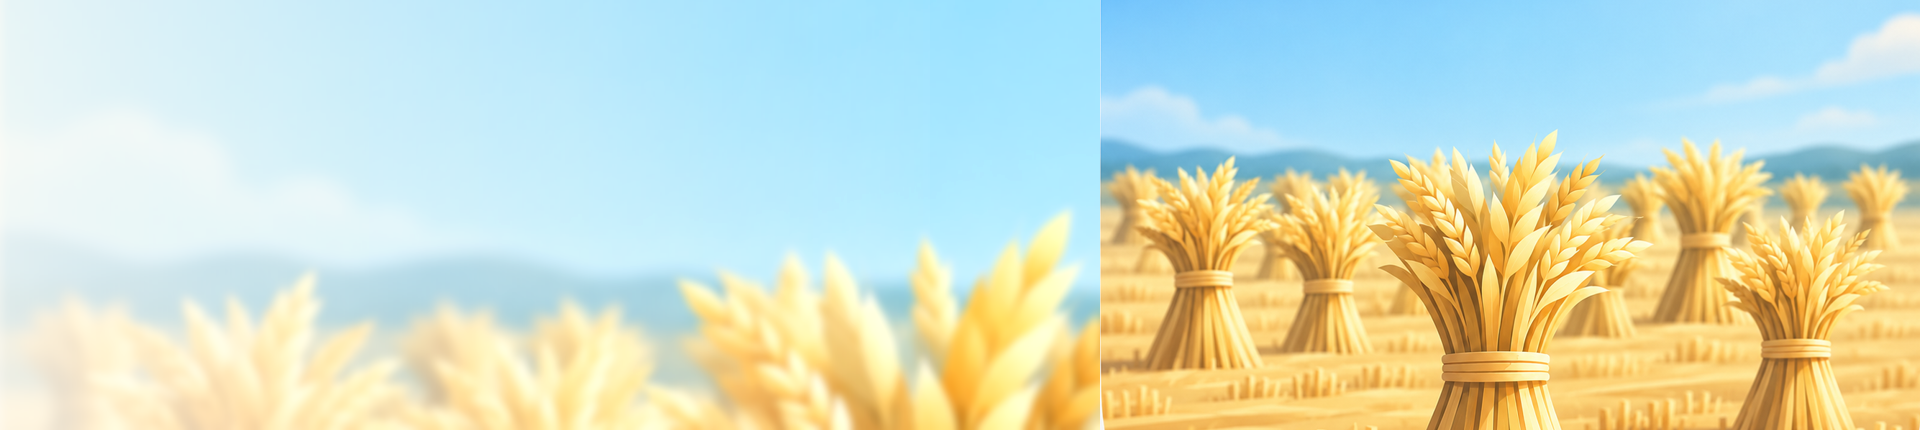
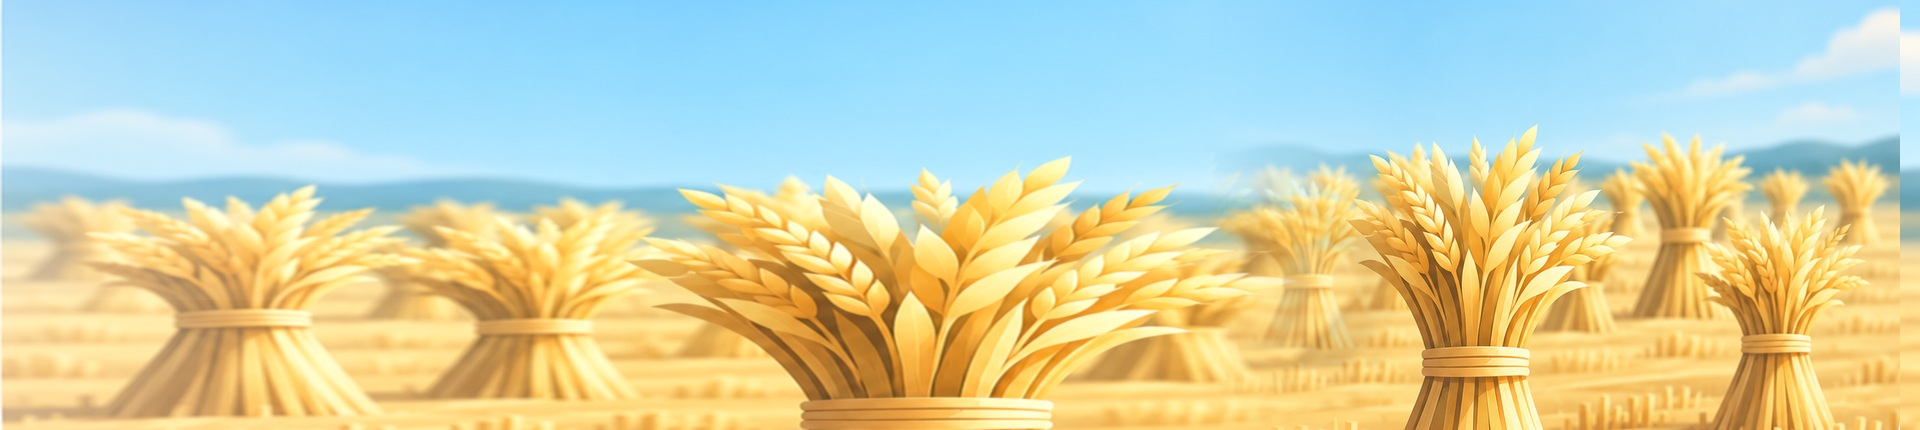
改版

diff --git a/style.css b/style.css
@@ -2040,3 +2040,123 @@ select:focus-visible,
     max-width: 100%;
   }
 }
+
+
+/* =========================================
+   v1.0.0｜正式公開版 Hero 微調
+   - 移除明顯的左右漸層斷點
+   - 文字只保留局部柔光，不讓模糊區延伸過長
+   - 桌機／手機使用同一張連續禾場背景
+========================================= */
+
+.topbar {
+  min-height: 252px;
+  padding: 40px clamp(24px, 4.6vw, 72px);
+  background:
+    radial-gradient(
+      ellipse 560px 220px at 18% 47%,
+      rgba(255, 253, 246, .82) 0%,
+      rgba(255, 253, 246, .62) 42%,
+      rgba(255, 253, 246, .24) 70%,
+      rgba(255, 253, 246, 0) 100%
+    ),
+    url("header-wheat.png") center 52% / cover no-repeat;
+}
+
+.topbar > div {
+  max-width: min(700px, 49vw);
+}
+
+.release-meta {
+  display: inline-flex;
+  align-items: center;
+  gap: 6px;
+  margin: 9px 0 0;
+  padding: 4px 8px;
+  border: 1px solid rgba(23, 55, 68, .10);
+  border-radius: 999px;
+  background: rgba(255, 255, 255, .38);
+  color: rgba(23, 55, 68, .70);
+  font-size: 10px;
+  font-weight: 800;
+  letter-spacing: .04em;
+  line-height: 1;
+  backdrop-filter: blur(3px);
+}
+
+@media (max-width: 900px) {
+  .topbar {
+    min-height: 238px;
+    background:
+      radial-gradient(
+        ellipse 520px 210px at 20% 44%,
+        rgba(255, 253, 246, .82) 0%,
+        rgba(255, 253, 246, .58) 45%,
+        rgba(255, 253, 246, .18) 74%,
+        rgba(255, 253, 246, 0) 100%
+      ),
+      url("header-wheat.png") 58% 52% / cover no-repeat;
+  }
+
+  .topbar > div {
+    max-width: 62%;
+  }
+}
+
+@media (max-width: 680px) {
+  .topbar {
+    min-height: 270px;
+    padding: 28px 20px 22px;
+    background:
+      radial-gradient(
+        ellipse 430px 230px at 18% 31%,
+        rgba(255, 253, 246, .88) 0%,
+        rgba(255, 253, 246, .64) 48%,
+        rgba(255, 253, 246, .20) 76%,
+        rgba(255, 253, 246, 0) 100%
+      ),
+      url("header-wheat.png") 60% center / cover no-repeat;
+  }
+
+  .topbar > div {
+    max-width: 100%;
+    padding-right: 0;
+  }
+
+  .topbar h1 {
+    font-size: clamp(29px, 9.4vw, 39px);
+  }
+
+  .topbar .subtitle {
+    max-width: 92%;
+    font-size: 13px;
+  }
+
+  .release-meta {
+    margin-top: 8px;
+    background: rgba(255, 255, 255, .46);
+  }
+
+  .topbar .btn.ghost {
+    margin-top: 15px;
+  }
+}
+
+@media (max-width: 420px) {
+  .topbar {
+    min-height: 278px;
+    background:
+      radial-gradient(
+        ellipse 390px 220px at 18% 29%,
+        rgba(255, 253, 246, .90) 0%,
+        rgba(255, 253, 246, .66) 48%,
+        rgba(255, 253, 246, .18) 77%,
+        rgba(255, 253, 246, 0) 100%
+      ),
+      url("header-wheat.png") 62% center / cover no-repeat;
+  }
+
+  .topbar .subtitle {
+    max-width: 100%;
+  }
+}

diff --git a/index.html b/index.html
@@ -59,6 +59,12 @@
         匯入當次點名報表與受浸報表，在瀏覽器本機完成分析；重新整理或清除後即移除資料。
       </p>
 
+      <p class="release-meta" aria-label="版本資訊">
+        <span>v1.0.0</span>
+        <span aria-hidden="true">·</span>
+        <span>J.C</span>
+      </p>
+
     </div>
 
 

diff --git a/CHANGELOG.md b/CHANGELOG.md
@@ -1,0 +1,18 @@
+# CHANGELOG
+
+本檔自正式公開版本開始記錄網站版本歷程。
+
+## v1.0.0 — 2026-09-11
+
+**維護代稱：J.C**
+
+### 正式公開版
+- 建立第一個供聖徒正式使用的公開版本。
+- 頁首改為明亮的禾場／禾捆主視覺。
+- 修正桌機版頁首背景左右銜接過快、產生明顯斷點的問題。
+- 縮短標題周邊的柔光／淡化範圍，讓文字與禾場之間的過渡更自然。
+- 調整手機版 Hero 構圖，避免背景與標題互相干擾。
+- 頁面加入版本識別 `v1.0.0 · J.C`。
+- 延續既有 iPhone／Windows 桌面 Icon 設定。
+- 延續可選季度比較功能；季度定義為 Q1＝1–4月、Q2＝5–8月、Q3＝9–12月。
+
